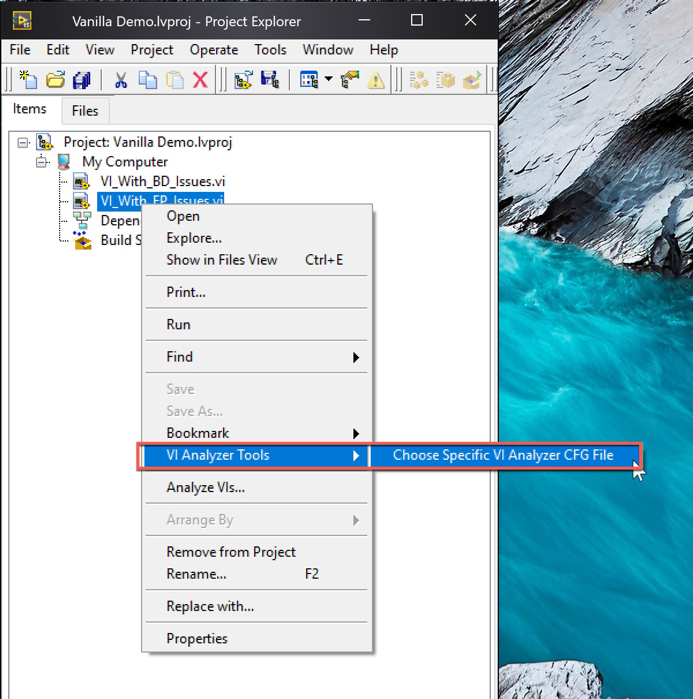
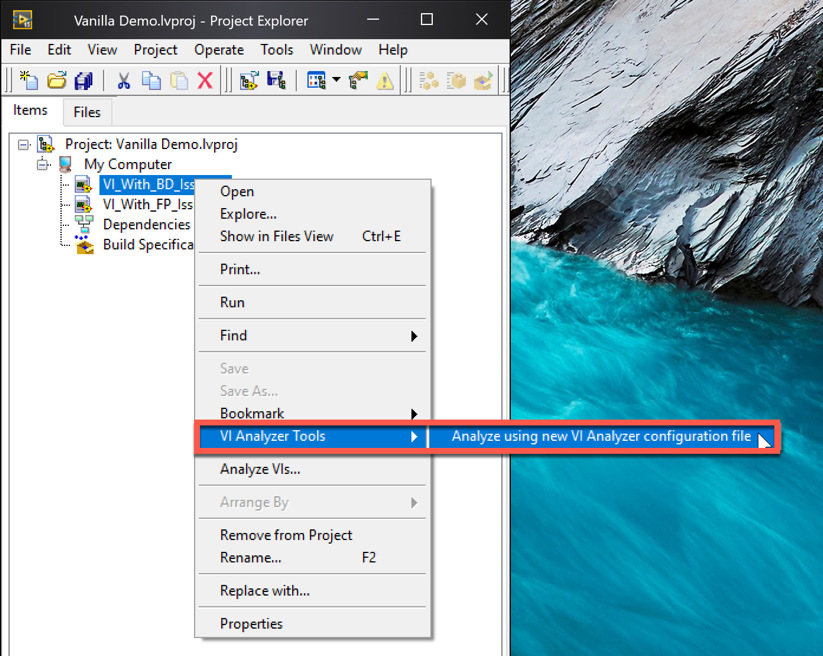
Updated

diff --git a/Greylock Technology/VI Analyzer Project Provider User Guide/VI Analyzer Project Provider User Guide.html b/Greylock Technology/VI Analyzer Project Provider User Guide/VI Analyzer Project Provider User Guide.html
@@ -25,15 +25,15 @@ w\:* {behavior:url(#default#VML);}
   <o:Author>Chris Roebuck</o:Author>
   <o:LastAuthor>Chris Roebuck</o:LastAuthor>
   <o:Revision>2</o:Revision>
-  <o:TotalTime>75</o:TotalTime>
-  <o:Created>2021-11-01T12:39:00Z</o:Created>
-  <o:LastSaved>2021-11-01T12:39:00Z</o:LastSaved>
+  <o:TotalTime>87</o:TotalTime>
+  <o:Created>2021-11-14T14:49:00Z</o:Created>
+  <o:LastSaved>2021-11-14T14:49:00Z</o:LastSaved>
   <o:Pages>1</o:Pages>
-  <o:Words>509</o:Words>
-  <o:Characters>2906</o:Characters>
-  <o:Lines>24</o:Lines>
-  <o:Paragraphs>6</o:Paragraphs>
-  <o:CharactersWithSpaces>3409</o:CharactersWithSpaces>
+  <o:Words>546</o:Words>
+  <o:Characters>3115</o:Characters>
+  <o:Lines>25</o:Lines>
+  <o:Paragraphs>7</o:Paragraphs>
+  <o:CharactersWithSpaces>3654</o:CharactersWithSpaces>
   <o:Version>16.00</o:Version>
  </o:DocumentProperties>
  <o:OfficeDocumentSettings>
@@ -682,7 +682,7 @@ href="VI%20Analyzer%20Project%20Provider%20User%20Guide.fld/colorschememapping.x
 	mso-font-charset:0;
 	mso-generic-font-family:roman;
 	mso-font-pitch:variable;
-	mso-font-signature:-536870145 1107305727 0 0 415 0;}
+	mso-font-signature:3 0 0 0 1 0;}
 @font-face
 	{font-family:Calibri;
 	panose-1:2 15 5 2 2 2 4 3 2 4;
@@ -1257,7 +1257,7 @@ style='mso-no-proof:yes'><!--[if gte vml 1]><v:shapetype id="_x0000_t75"
  </v:formulas>
  <v:path o:extrusionok="f" gradientshapeok="t" o:connecttype="rect"/>
  <o:lock v:ext="edit" aspectratio="t"/>
-</v:shapetype><v:shape id="Picture_x0020_1" o:spid="_x0000_i1031" type="#_x0000_t75"
+</v:shapetype><v:shape id="Picture_x0020_1" o:spid="_x0000_i1032" type="#_x0000_t75"
  alt="A picture containing drawing&#10;&#10;Description automatically generated"
  style='width:138pt;height:64pt;visibility:visible;mso-wrap-style:square'>
  <v:imagedata src="VI%20Analyzer%20Project%20Provider%20User%20Guide.fld/image001.png"
@@ -1293,7 +1293,7 @@ the Bookmark Project Provider available. <o:p></o:p></b></p>
 
 <p class=MsoNormal align=center style='text-align:center;page-break-after:avoid'><span
 style='mso-no-proof:yes'><!--[if gte vml 1]><v:shape id="Picture_x0020_4"
- o:spid="_x0000_i1030" type="#_x0000_t75" alt="Graphical user interface, application&#10;&#10;Description automatically generated"
+ o:spid="_x0000_i1031" type="#_x0000_t75" alt="Graphical user interface, application&#10;&#10;Description automatically generated"
  style='width:356pt;height:100pt;visibility:visible;mso-wrap-style:square'>
  <v:imagedata src="VI%20Analyzer%20Project%20Provider%20User%20Guide.fld/image002.jpg"
   o:title="Graphical user interface, application&#10;&#10;Description automatically generated"/>
@@ -1315,10 +1315,10 @@ to restart LabVIEW after installation<b><o:p></o:p></b></p>
 
 <p class=MsoNormal><o:p>&nbsp;</o:p></p>
 
-<p class=MsoNormal>Once installed the VI Analyzer Project Provider can be invoked
+<p class=MsoNormal>Once installed, the VI Analyzer Project Provider can be invoked
 by selecting one of more VIs in the LabVIEW Project. This will allow the item
-right click menu to be displayed through which a VI Analyzer CFG file can be
-selected.</p>
+right click menu to be displayed through which a VI Analyzer Configuration file
+(hereafter CFG) can be selected.</p>
 
 <p class=MsoNormal><o:p>&nbsp;</o:p></p>
 
@@ -1330,7 +1330,7 @@ href="https://www.ni.com/pdf/manuals/373631d.pdf">https://www.ni.com/pdf/manuals
 
 <p class=MsoNormal align=center style='text-align:center;page-break-after:avoid'><span
 style='mso-no-proof:yes'><!--[if gte vml 1]><v:shape id="Picture_x0020_3"
- o:spid="_x0000_i1029" type="#_x0000_t75" alt="Graphical user interface, application&#10;&#10;Description automatically generated"
+ o:spid="_x0000_i1030" type="#_x0000_t75" alt="Graphical user interface, application&#10;&#10;Description automatically generated"
  style='width:218pt;height:289pt;visibility:visible;mso-wrap-style:square'>
  <v:imagedata src="VI%20Analyzer%20Project%20Provider%20User%20Guide.fld/image003.png"
   o:title="Graphical user interface, application&#10;&#10;Description automatically generated"/>
@@ -1349,39 +1349,39 @@ Click Menu for Selected Item</p>
 <p class=MsoNormal><o:p>&nbsp;</o:p></p>
 
 <p class=MsoNormal align=center style='text-align:center;page-break-after:avoid'><span
-style='mso-no-proof:yes'><!--[if gte vml 1]><v:shape id="Picture_x0020_10"
- o:spid="_x0000_i1028" type="#_x0000_t75" alt="Graphical user interface&#10;&#10;Description automatically generated"
- style='width:222pt;height:223pt;visibility:visible;mso-wrap-style:square'>
+style='mso-no-proof:yes'><!--[if gte vml 1]><v:shape id="Picture_x0020_6"
+ o:spid="_x0000_i1029" type="#_x0000_t75" alt="Graphical user interface&#10;&#10;Description automatically generated"
+ style='width:268pt;height:214pt;visibility:visible;mso-wrap-style:square'>
  <v:imagedata src="VI%20Analyzer%20Project%20Provider%20User%20Guide.fld/image004.png"
   o:title="Graphical user interface&#10;&#10;Description automatically generated"/>
-</v:shape><![endif]--><![if !vml]><img border=0 width=222 height=223
+</v:shape><![endif]--><![if !vml]><img border=0 width=268 height=214
 src="VI%20Analyzer%20Project%20Provider%20User%20Guide.fld/image004.png"
 alt="Graphical user interface&#10;&#10;Description automatically generated"
-v:shapes="Picture_x0020_10"><![endif]></span></p>
+v:shapes="Picture_x0020_6"><![endif]></span></p>
 
 <p class=MsoCaption align=center style='text-align:center'>Figure <!--[if supportFields]><span
 style='mso-element:field-begin'></span><span
 style='mso-spacerun:yes'> </span>SEQ Figure \* ARABIC <span style='mso-element:
 field-separator'></span><![endif]--><span style='mso-no-proof:yes'>3</span><!--[if supportFields]><span
 style='mso-no-proof:yes'><span style='mso-element:field-end'></span></span><![endif]-->-Select
-Specific VI Analyzer CFG File</p>
+New VI Analyzer CFG File</p>
 
 <p class=MsoNormal>Once one or more CFG files have been selected by this tool
 the right click menu will modify itself to allow you to quickly select recently
-used files as well as choosing a specific file via a file dialog.</p>
+used files as well as choosing a specific new file via a file dialog.</p>
 
 <p class=MsoNormal><o:p>&nbsp;</o:p></p>
 
 <p class=MsoNormal align=center style='text-align:center;page-break-after:avoid'><span
-style='mso-no-proof:yes'><!--[if gte vml 1]><v:shape id="Picture_x0020_15"
- o:spid="_x0000_i1027" type="#_x0000_t75" alt="Graphical user interface, application&#10;&#10;Description automatically generated"
- style='width:221pt;height:188pt;visibility:visible;mso-wrap-style:square'>
+style='mso-no-proof:yes'><!--[if gte vml 1]><v:shape id="Picture_x0020_7"
+ o:spid="_x0000_i1028" type="#_x0000_t75" alt="Graphical user interface, application&#10;&#10;Description automatically generated"
+ style='width:262pt;height:215pt;visibility:visible;mso-wrap-style:square'>
  <v:imagedata src="VI%20Analyzer%20Project%20Provider%20User%20Guide.fld/image005.png"
   o:title="Graphical user interface, application&#10;&#10;Description automatically generated"/>
-</v:shape><![endif]--><![if !vml]><img border=0 width=221 height=188
+</v:shape><![endif]--><![if !vml]><img border=0 width=262 height=215
 src="VI%20Analyzer%20Project%20Provider%20User%20Guide.fld/image005.png"
 alt="Graphical user interface, application&#10;&#10;Description automatically generated"
-v:shapes="Picture_x0020_15"><![endif]></span></p>
+v:shapes="Picture_x0020_7"><![endif]></span></p>
 
 <p class=MsoCaption align=center style='text-align:center'>Figure <!--[if supportFields]><span
 style='mso-element:field-begin'></span><span
@@ -1390,9 +1390,34 @@ field-separator'></span><![endif]--><span style='mso-no-proof:yes'>4</span><!--[
 style='mso-no-proof:yes'><span style='mso-element:field-end'></span></span><![endif]-->-Select
 Recently Used Files</p>
 
+<p class=MsoNormal><o:p>&nbsp;</o:p></p>
+
+<p class=MsoNormal align=center style='text-align:center;page-break-after:avoid'><span
+style='mso-no-proof:yes'><!--[if gte vml 1]><v:shape id="Picture_x0020_8"
+ o:spid="_x0000_i1027" type="#_x0000_t75" alt="Graphical user interface, application&#10;&#10;Description automatically generated"
+ style='width:312pt;height:181pt;visibility:visible;mso-wrap-style:square'>
+ <v:imagedata src="VI%20Analyzer%20Project%20Provider%20User%20Guide.fld/image006.png"
+  o:title="Graphical user interface, application&#10;&#10;Description automatically generated"/>
+</v:shape><![endif]--><![if !vml]><img border=0 width=312 height=181
+src="VI%20Analyzer%20Project%20Provider%20User%20Guide.fld/image006.png"
+alt="Graphical user interface, application&#10;&#10;Description automatically generated"
+v:shapes="Picture_x0020_8"><![endif]></span></p>
+
+<p class=MsoCaption align=center style='text-align:center'>Figure <!--[if supportFields]><span
+style='mso-element:field-begin'></span><span style='mso-spacerun:yes'> </span>SEQ
+Figure \* ARABIC <span style='mso-element:field-separator'></span><![endif]--><span
+style='mso-no-proof:yes'>5</span><!--[if supportFields]><span style='mso-element:
+field-end'></span><![endif]-->-Recently used VI Analyzer CFG file list</p>
+
+<p class=MsoNormal>To select one of the recently used files simply select the
+desired item from the list and click ‘Select’ or double click the item directly
+in the list.</p>
+
+<p class=MsoNormal><o:p>&nbsp;</o:p></p>
+
 <p class=MsoNormal>One a CFG has been chosen, the VI(s) selected will be analysed
-and once complete the results will be displayed, depending on the <span
-class=GramE>particular CFG</span> being used this may take several seconds.</p>
+and once complete the results will be displayed, depending on the CFG being
+used this may take several seconds.</p>
 
 <p class=MsoNormal><o:p>&nbsp;</o:p></p>
 
@@ -1406,18 +1431,19 @@ removed once the project is closed and re-opened.</p>
 style='mso-no-proof:yes'><!--[if gte vml 1]><v:shape id="Picture_x0020_2"
  o:spid="_x0000_i1026" type="#_x0000_t75" alt="Graphical user interface, text, application&#10;&#10;Description automatically generated"
  style='width:376pt;height:280pt;visibility:visible;mso-wrap-style:square'>
- <v:imagedata src="VI%20Analyzer%20Project%20Provider%20User%20Guide.fld/image006.png"
+ <v:imagedata src="VI%20Analyzer%20Project%20Provider%20User%20Guide.fld/image007.png"
   o:title="Graphical user interface, text, application&#10;&#10;Description automatically generated"/>
 </v:shape><![endif]--><![if !vml]><img border=0 width=376 height=280
-src="VI%20Analyzer%20Project%20Provider%20User%20Guide.fld/image006.png"
+src="VI%20Analyzer%20Project%20Provider%20User%20Guide.fld/image007.png"
 alt="Graphical user interface, text, application&#10;&#10;Description automatically generated"
 v:shapes="Picture_x0020_2"><![endif]></span></p>
 
 <p class=MsoCaption align=center style='text-align:center'>Figure <!--[if supportFields]><span
-style='mso-element:field-begin'></span><span style='mso-spacerun:yes'> </span>SEQ
-Figure \* ARABIC <span style='mso-element:field-separator'></span><![endif]--><span
-style='mso-no-proof:yes'>5</span><!--[if supportFields]><span style='mso-element:
-field-end'></span><![endif]-->-VI Analysis Passed</p>
+style='mso-element:field-begin'></span><span
+style='mso-spacerun:yes'> </span>SEQ Figure \* ARABIC <span style='mso-element:
+field-separator'></span><![endif]--><span style='mso-no-proof:yes'>6</span><!--[if supportFields]><span
+style='mso-no-proof:yes'><span style='mso-element:field-end'></span></span><![endif]-->-VI
+Analysis Passed</p>
 
 <p class=MsoNormal><o:p>&nbsp;</o:p></p>
 
@@ -1425,18 +1451,19 @@ field-end'></span><![endif]-->-VI Analysis Passed</p>
 style='mso-no-proof:yes'><!--[if gte vml 1]><v:shape id="Picture_x0020_5"
  o:spid="_x0000_i1025" type="#_x0000_t75" alt="Graphical user interface, application&#10;&#10;Description automatically generated"
  style='width:380pt;height:4in;visibility:visible;mso-wrap-style:square'>
- <v:imagedata src="VI%20Analyzer%20Project%20Provider%20User%20Guide.fld/image007.png"
+ <v:imagedata src="VI%20Analyzer%20Project%20Provider%20User%20Guide.fld/image008.png"
   o:title="Graphical user interface, application&#10;&#10;Description automatically generated"/>
 </v:shape><![endif]--><![if !vml]><img border=0 width=380 height=288
-src="VI%20Analyzer%20Project%20Provider%20User%20Guide.fld/image007.png"
+src="VI%20Analyzer%20Project%20Provider%20User%20Guide.fld/image008.png"
 alt="Graphical user interface, application&#10;&#10;Description automatically generated"
 v:shapes="Picture_x0020_5"><![endif]></span></p>
 
 <p class=MsoCaption align=center style='text-align:center'>Figure <!--[if supportFields]><span
-style='mso-element:field-begin'></span><span style='mso-spacerun:yes'> </span>SEQ
-Figure \* ARABIC <span style='mso-element:field-separator'></span><![endif]--><span
-style='mso-no-proof:yes'>6</span><!--[if supportFields]><span style='mso-element:
-field-end'></span><![endif]-->-VI Analysis Failed</p>
+style='mso-element:field-begin'></span><span
+style='mso-spacerun:yes'> </span>SEQ Figure \* ARABIC <span style='mso-element:
+field-separator'></span><![endif]--><span style='mso-no-proof:yes'>7</span><!--[if supportFields]><span
+style='mso-no-proof:yes'><span style='mso-element:field-end'></span></span><![endif]-->-VI
+Analysis Failed</p>
 
 <p class=MsoNormal>No changes are made to any of the VIs being analysed (unless
 made by scripting code called by the actual VI Analyzer tests) and the addition
@@ -1452,11 +1479,13 @@ text2'><o:p>&nbsp;</o:p></span></i></p>
 <p class=MsoNormal><o:p>&nbsp;</o:p></p>
 
 <p class=MsoNormal>The following instructional video shows the VI Analyzer
-Project Provider in action.</p>
+Project Provider in action:</p>
 
 <p class=MsoNormal><o:p>&nbsp;</o:p></p>
 
-<p class=MsoNormal><a href="https://youtu.be/MTIs9p6X5Js">https://youtu.be/MTIs9p6X5Js</a></p>
+<p class=MsoNormal><a href="https://youtu.be/-Jvbw6TtJzw">https://youtu.be/-Jvbw6TtJzw</a></p>
+
+<p class=MsoNormal><o:p>&nbsp;</o:p></p>
 
 <p class=MsoNormal><i><o:p>&nbsp;</o:p></i></p>
 
@@ -1475,10 +1504,10 @@ party content<o:p></o:p></span></p>
 <p class=MsoNormal><span style='font-size:18.0pt'><o:p>&nbsp;</o:p></span></p>
 
 <p class=MsoNormal>The installation package for the VI Analyzer Project
-Provider contains a useful VI that holds execution until the VI Analyzer detailed
-results window has been closed. This VI; ‘Wait <span class=GramE>For</span> VI
-Analyzer Results Window To Close.vi’ is in the public domain and can be found
-here:</p>
+Provider contains a useful VI that holds execution until the VI Analyzer
+detailed results window has been closed. This VI; ‘Wait <span class=GramE>For</span>
+VI Analyzer Results Window To Close.vi’ is in the public domain and can be
+found here:</p>
 
 <p class=MsoNormal><o:p>&nbsp;</o:p></p>
 
